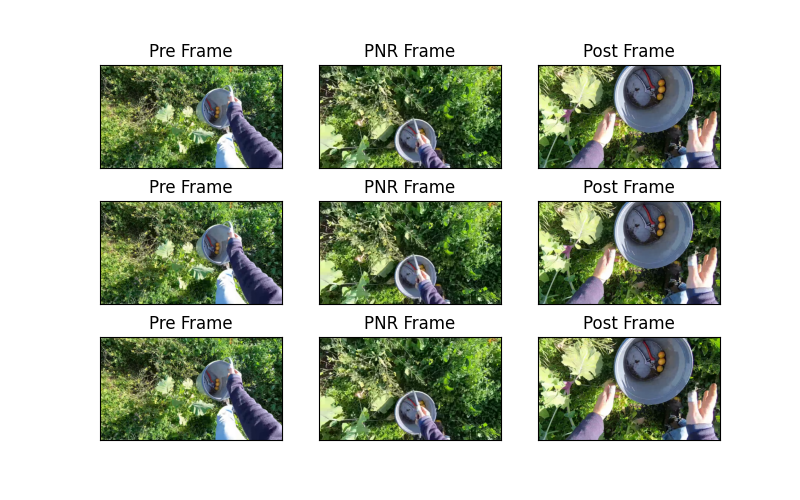
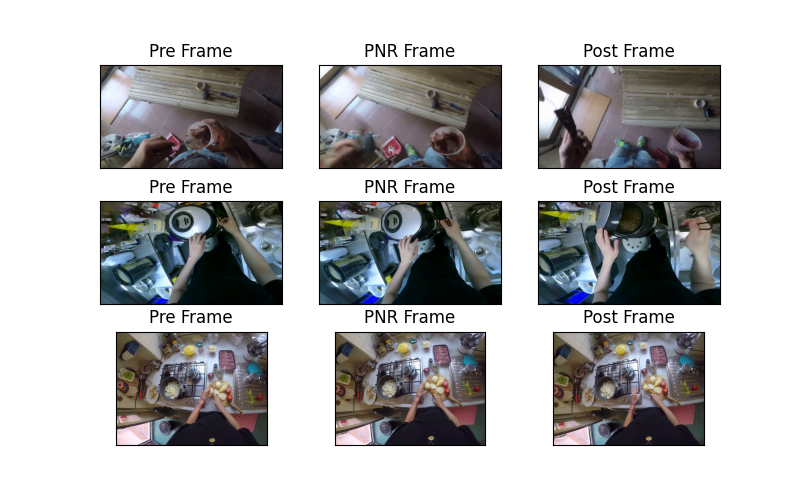
Cleaning

diff --git a/data_viz.py b/data_viz.py
@@ -41,7 +41,6 @@ def get_frames(idx):
 
 scod_idx = 0
 hands_idx = 0
-
 pre_img, pnr_img, post_img = get_frames(0)
 fig, ax = plt.subplots(3, 3)
 fig.set_figheight(5)
@@ -59,7 +58,7 @@ ax[0,2].axes.xaxis.set_visible(False)
 ax[0,2].axes.yaxis.set_visible(False)
 ax[0,2].set_title("Post Frame")
 
-#pre_img, pnr_img, post_img = get_frames(1)
+pre_img, pnr_img, post_img = get_frames(940)
 ax[1,0].imshow(pre_img)
 ax[1,0].axes.xaxis.set_visible(False)
 ax[1,0].axes.yaxis.set_visible(False)
@@ -73,7 +72,7 @@ ax[1,2].axes.xaxis.set_visible(False)
 ax[1,2].axes.yaxis.set_visible(False)
 ax[1,2].set_title("Post Frame")
 
-#pre_img, pnr_img, post_img = get_frames(2)
+pre_img, pnr_img, post_img = get_frames(5006)
 ax[2,0].imshow(pre_img)
 ax[2,0].axes.xaxis.set_visible(False)
 ax[2,0].axes.yaxis.set_visible(False)
